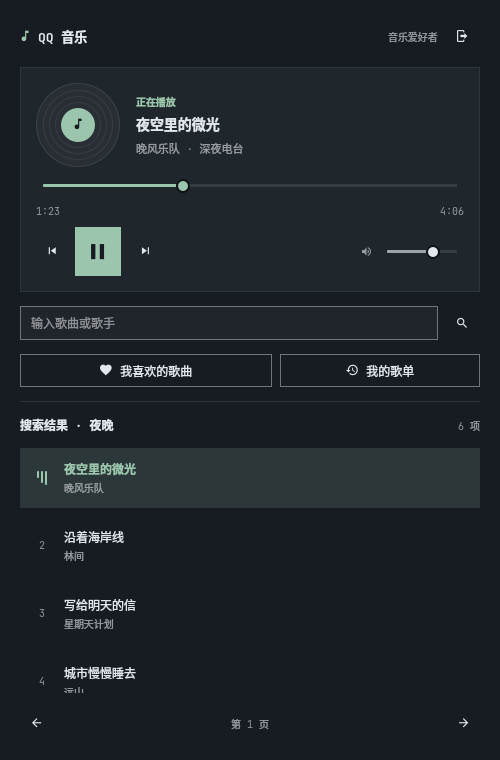
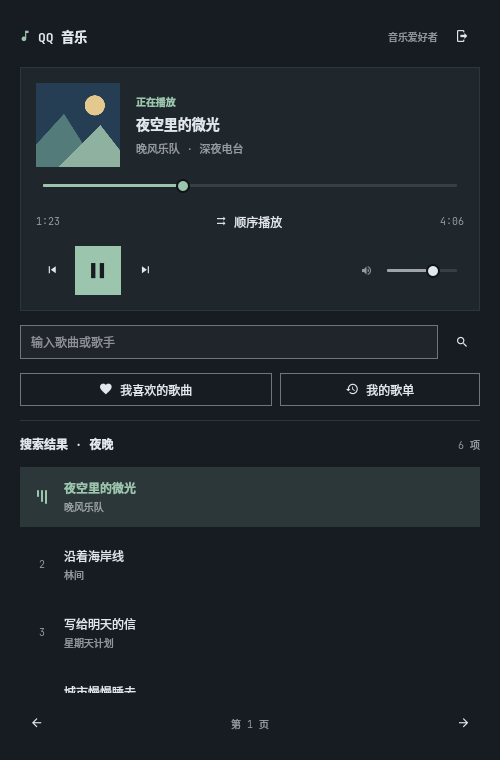
Prepare plugin metadata and preview for marketplace submission

diff --git a/README.md b/README.md
@@ -1,6 +1,6 @@
 # omaqqmusic — QQ 音乐 Omarchy 原生插件
 
-![新版播放器界面（示例歌曲与账号）](docs/preview.png)
+![播放器界面（示例歌曲、账号与模拟专辑封面）](preview.png)
 
 在 Omarchy 顶栏内使用手机 QQ 扫码登录、搜索歌曲、读取自己的歌单并直接播放。无需打开浏览器。QML 面板使用 Omarchy 主题，Python 本地服务请求 QQ 音乐接口，mpv 负责播放。
 
@@ -100,15 +100,38 @@ bash tests/preview.sh compact /tmp/qqmusic-compact.png
 QQ_PREVIEW_LANGUAGE=en bash tests/preview.sh empty /tmp/qqmusic-empty.png
 ```
 
-也支持 `login`、`playlists`、`error`、`light`、`cover`（本地模拟封面）、`cover-error`（封面加载失败回退）场景。登录预览只显示不可扫码的占位图。预览调色只作用于该独立进程，不修改桌面主题；受限环境下 Quickshell 的 IPC/Hyprland 连接警告不影响截图。
+也支持 `login`、`playlists`、`error`、`light`、`shuffle`、`cover`（本地模拟封面）、`cover-error`（封面加载失败回退）场景。登录预览只显示不可扫码的占位图。预览调色只作用于该独立进程，不修改桌面主题；受限环境下 Quickshell 的 IPC/Hyprland 连接警告不影响截图。
+
+仓库根目录的 `preview.png` 用于插件市场展示，`docs/preview.png` 保留为本地安装副本。两张图片均使用上述虚构数据生成，可在项目目录更新：
+
+```bash
+bash tests/preview.sh cover "$PWD/preview.png"
+cp preview.png docs/preview.png
+```
 
 ## 停用与清理
+
+仅停用（保留插件文件和登录状态）：
 
 ```bash
 omarchy plugin disable panjie.omaqqmusic
 ```
 
-卸载前可在插件中退出登录清除凭证；或者停用后手动删除上面列出的 `session.json`。插件备份不包含账号凭证。
+卸载通过 `omarchy plugin add` 安装的插件：先在插件内点击“退出登录”清除凭证，再执行以下命令并按提示确认。该命令移除插件目录并卸载运行中的插件：
+
+```bash
+omarchy plugin remove panjie.omaqqmusic
+```
+
+若已卸载但未退出登录，可单独清除残留凭证：
+
+```bash
+rm -f -- "${XDG_STATE_HOME:-$HOME/.local/state}/omarchy-qqmusic/session.json"
+```
+
+`plugin remove` 不清理独立的状态目录；不删除凭证时，重新安装会恢复登录状态。不要在服务仍运行时手动删除凭证。
+
+通过 `install.sh` 安装到默认配置目录的文件副本也可用 `plugin remove` 移除，Omarchy 会将其改名备份。若本地开发安装使用了自定义 `XDG_CONFIG_HOME`，请先执行上述停用命令，再手动移除 `${XDG_CONFIG_HOME}/omarchy/plugins/panjie.omaqqmusic`，因为当前 Omarchy CLI 的移除命令只查找 `~/.config`。不再需要的备份可从 `${XDG_CONFIG_HOME:-$HOME/.config}/omarchy/plugin-backups/` 清理；插件备份不包含账号凭证。
 
 接口来源与许可证见 [THIRD_PARTY_NOTICES.md](THIRD_PARTY_NOTICES.md)。
 
